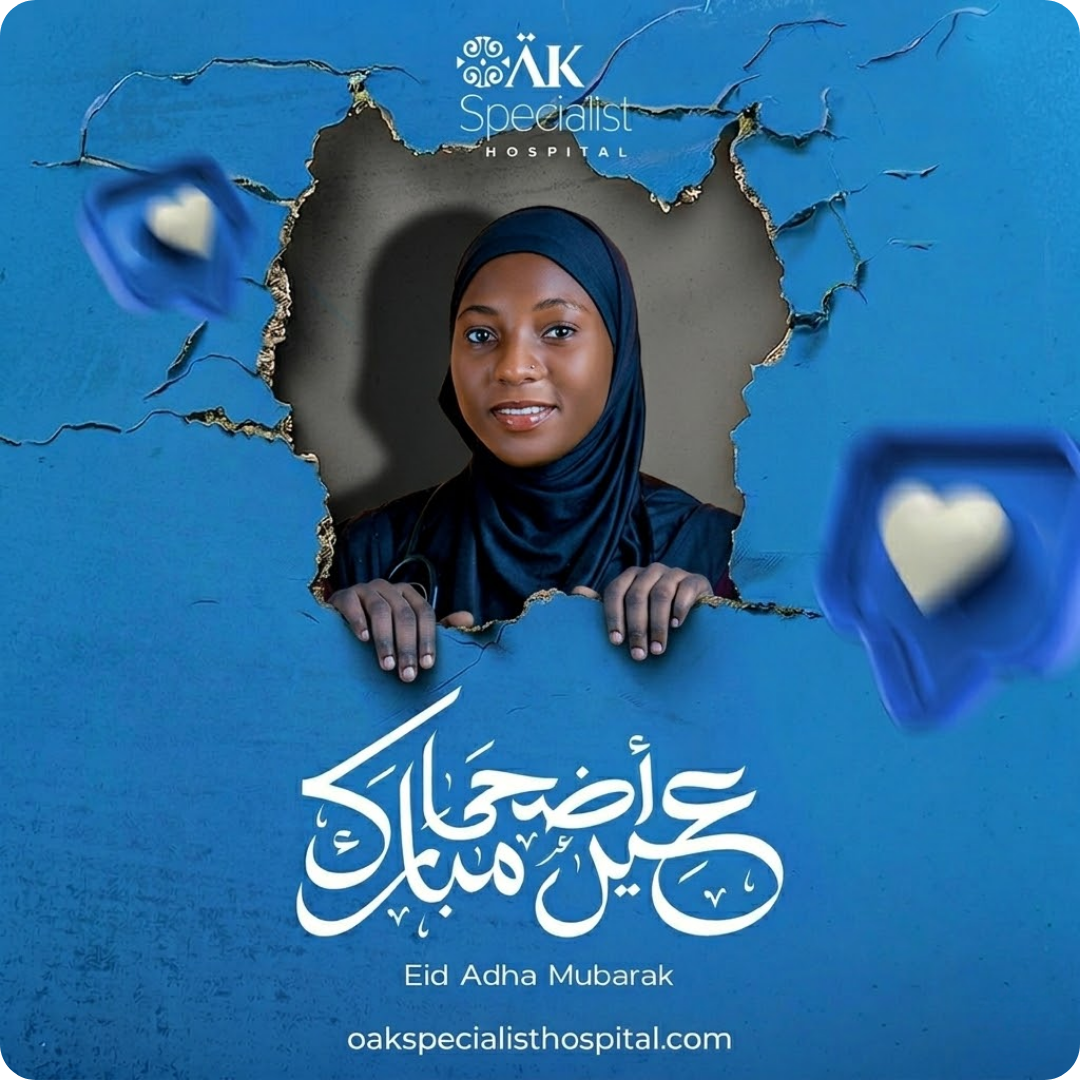
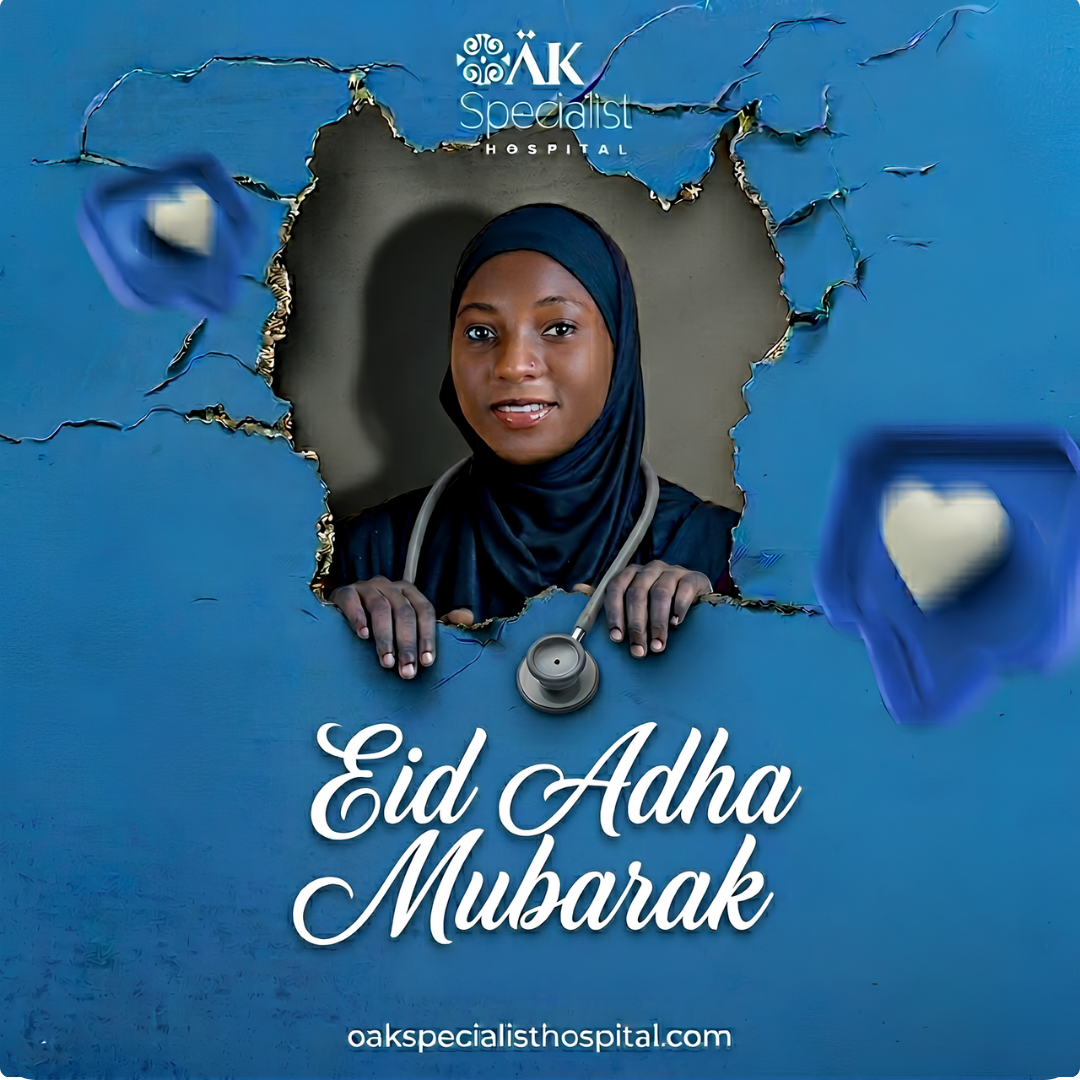
feat: implement interactive booking wizard for appointment scheduling

diff --git a/index.html b/index.html
@@ -605,7 +605,8 @@
               <div class="case_list owl-carousel">
                 <div class="case_study_item">
                   <div class="case_thumb">
-                    <a href="#" title="View IVF Success Story"><img src="assets/images/main-home/case_img.png" alt="IVF Case Study"></a>
+                    <a href="#" title="View IVF Success Story"><img src="assets/images/main-home/case_img.png"
+                        alt="IVF Case Study"></a>
                     <div class="case_study_content">
                       <span>Fertility & IVF</span>
                       <h3><a href="#">Miracle Twin IVF Journey</a></h3>
@@ -614,7 +615,8 @@
                 </div>
                 <div class="case_study_item">
                   <div class="case_thumb">
-                    <a href="#" title="View Maternal Success Story"><img src="assets/images/main-home/case_img2.png" alt="Maternal Case Study"></a>
+                    <a href="#" title="View Maternal Success Story"><img src="assets/images/main-home/case_img2.png"
+                        alt="Maternal Case Study"></a>
                     <div class="case_study_content">
                       <span>Obstetrics & Maternity</span>
                       <h3><a href="#">Exceptional Maternal Care</a></h3>
@@ -623,7 +625,8 @@
                 </div>
                 <div class="case_study_item">
                   <div class="case_thumb">
-                    <a href="#" title="View IVF Success Story"><img src="assets/images/main-home/case_img.png" alt="IVF Case Study"></a>
+                    <a href="#" title="View IVF Success Story"><img src="assets/images/main-home/case_img.png"
+                        alt="IVF Case Study"></a>
                     <div class="case_study_content">
                       <span>Fertility & IVF</span>
                       <h3><a href="#">Miracle Twin IVF Journey</a></h3>
@@ -632,7 +635,8 @@
                 </div>
                 <div class="case_study_item">
                   <div class="case_thumb">
-                    <a href="#" title="View Maternal Success Story"><img src="assets/images/main-home/case_img2.png" alt="Maternal Case Study"></a>
+                    <a href="#" title="View Maternal Success Story"><img src="assets/images/main-home/case_img2.png"
+                        alt="Maternal Case Study"></a>
                     <div class="case_study_content">
                       <span>Obstetrics & Maternity</span>
                       <h3><a href="#">Exceptional Maternal Care</a></h3>
@@ -734,7 +738,7 @@
               <img src="assets/images/main-home/team03.png" alt="" />
             </div>
             <div class="team-content text-center">
-              <h2>Dr.  Mensah</h2>
+              <h2>Dr. Mercy Mensah</h2>
               <h5>Consultant Paediatrician</h5>
               <div class="social-icon">
                 <ul>
@@ -824,48 +828,69 @@
               <div class="row">
                 <div class="col-lg-6 col-md-6">
                   <div class="form-box">
-                    <select id="index-type" name="type" title="Select Consultation Type" required="" style="width: 100%; border: none; outline: none; background: transparent; padding-left: 75px; font-size: 15px; color: #ffffff; height: 55px; appearance: none; -webkit-appearance: none;">
-                      <option value="" disabled selected style="color: #616161; background: #1e3348;">Consultation Type*</option>
-                      <option value="inPerson" style="color: #ffffff; background: #1e3348;">In-Person Consultation</option>
-                      <option value="virtual" style="color: #ffffff; background: #1e3348;">Virtual (Google Meet)</option>
+                    <select id="index-type" name="type" title="Select Consultation Type" required=""
+                      style="width: 100%; border: none; outline: none; background: transparent; padding-left: 75px; font-size: 15px; color: #ffffff; height: 55px; appearance: none; -webkit-appearance: none;">
+                      <option value="" disabled selected style="color: #616161; background: #1e3348;">Consultation Type*
+                      </option>
+                      <option value="inPerson" style="color: #ffffff; background: #1e3348;">In-Person Consultation
+                      </option>
+                      <option value="virtual" style="color: #ffffff; background: #1e3348;">Virtual (Google Meet)
+                      </option>
                     </select>
-                    <i class="fa-solid fa-video" style="position: absolute; left: 30px; top: 18px; color: var(--secondary-color);"></i>
+                    <i class="fa-solid fa-video"
+                      style="position: absolute; left: 30px; top: 18px; color: var(--secondary-color);"></i>
                   </div>
                 </div>
                 <div class="col-lg-6 col-md-6">
                   <div class="form-box">
-                    <select id="index-treatment" name="department" title="Select Department" required="" style="width: 100%; border: none; outline: none; background: transparent; padding-left: 75px; font-size: 15px; color: #ffffff; height: 55px; appearance: none; -webkit-appearance: none;">
-                      <option value="" disabled selected style="color: #616161; background: #1e3348;">Select Specialty*</option>
-                      <option value="general-medicine" style="color: #ffffff; background: #1e3348;">General/Family Medicine</option>
-                      <option value="obstetrics-gynaecology" style="color: #ffffff; background: #1e3348;">Obstetrics/Gynaecology</option>
+                    <select id="index-treatment" name="department" title="Select Department" required=""
+                      style="width: 100%; border: none; outline: none; background: transparent; padding-left: 75px; font-size: 15px; color: #ffffff; height: 55px; appearance: none; -webkit-appearance: none;">
+                      <option value="" disabled selected style="color: #616161; background: #1e3348;">Select Specialty*
+                      </option>
+                      <option value="general-medicine" style="color: #ffffff; background: #1e3348;">General/Family
+                        Medicine</option>
+                      <option value="obstetrics-gynaecology" style="color: #ffffff; background: #1e3348;">
+                        Obstetrics/Gynaecology</option>
                       <option value="ivf" style="color: #ffffff; background: #1e3348;">Fertility & IVF</option>
                       <option value="paediatrics" style="color: #ffffff; background: #1e3348;">Paediatrics</option>
-                      <option value="gynae-oncology" style="color: #ffffff; background: #1e3348;">Gynae-oncology</option>
-                      <option value="pediatric-surgery" style="color: #ffffff; background: #1e3348;">Pediatric Surgery</option>
-                      <option value="general-surgery" style="color: #ffffff; background: #1e3348;">General Surgery</option>
+                      <option value="gynae-oncology" style="color: #ffffff; background: #1e3348;">Gynae-oncology
+                      </option>
+                      <option value="pediatric-surgery" style="color: #ffffff; background: #1e3348;">Pediatric Surgery
+                      </option>
+                      <option value="general-surgery" style="color: #ffffff; background: #1e3348;">General Surgery
+                      </option>
                       <option value="anaesthetic" style="color: #ffffff; background: #1e3348;">Anaesthetics</option>
-                      <option value="internal-medicine" style="color: #ffffff; background: #1e3348;">Internal Medicine</option>
+                      <option value="internal-medicine" style="color: #ffffff; background: #1e3348;">Internal Medicine
+                      </option>
                       <option value="haematology" style="color: #ffffff; background: #1e3348;">Haematology</option>
                       <option value="opthalmology" style="color: #ffffff; background: #1e3348;">Ophthalmology</option>
-                      <option value="dietician" style="color: #ffffff; background: #1e3348;">Dietician & Nutrition</option>
-                      <option value="other-services" style="color: #ffffff; background: #1e3348;">Other Services</option>
+                      <option value="dietician" style="color: #ffffff; background: #1e3348;">Dietician & Nutrition
+                      </option>
+                      <option value="other-services" style="color: #ffffff; background: #1e3348;">Other Services
+                      </option>
                     </select>
-                    <i class="fa-solid fa-stethoscope" style="position: absolute; left: 30px; top: 18px; color: var(--secondary-color);"></i>
+                    <i class="fa-solid fa-stethoscope"
+                      style="position: absolute; left: 30px; top: 18px; color: var(--secondary-color);"></i>
                   </div>
                 </div>
                 <div class="col-lg-12">
                   <div class="form-box">
-                    <select id="index-doctor" name="specialist" title="Select Doctor" required="" style="width: 100%; border: none; outline: none; background: transparent; padding-left: 75px; font-size: 15px; color: #ffffff; height: 55px; appearance: none; -webkit-appearance: none;">
-                      <option value="" disabled selected style="color: #616161; background: #1e3348;">Select Specialist*</option>
+                    <select id="index-doctor" name="specialist" title="Select Doctor" required=""
+                      style="width: 100%; border: none; outline: none; background: transparent; padding-left: 75px; font-size: 15px; color: #ffffff; height: 55px; appearance: none; -webkit-appearance: none;">
+                      <option value="" disabled selected style="color: #616161; background: #1e3348;">Select Specialist*
+                      </option>
                       <option value="any" style="color: #ffffff; background: #1e3348;">Any Specialist Available</option>
                     </select>
-                    <i class="fa-solid fa-user-doctor" style="position: absolute; left: 30px; top: 18px; color: var(--secondary-color);"></i>
+                    <i class="fa-solid fa-user-doctor"
+                      style="position: absolute; left: 30px; top: 18px; color: var(--secondary-color);"></i>
                   </div>
                 </div>
                 <div class="col-lg-12">
                   <div class="check_bx">
                     <input type="checkbox" id="index-agree" title="I agree to terms and conditions" required="">
-                    <label for="index-agree" style="font-size: 14px; color: rgba(255, 255, 255, 0.85); margin-left: 10px; cursor: pointer;">I agree to terms and conditions</label>
+                    <label for="index-agree"
+                      style="font-size: 14px; color: rgba(255, 255, 255, 0.85); margin-left: 10px; cursor: pointer;">I
+                      agree to terms and conditions</label>
                   </div>
                   <div class="submit-button cursor-scale small" style="margin-top: 20px;">
                     <button class="submit-btn" type="submit">
@@ -942,7 +967,8 @@
                     </div>
                     <div class="testi-desc">
                       <p>
-                        "The team is extremely professional and the ambience alone is therapeutic. Definitely matching international quality and standards."
+                        "The team is extremely professional and the ambience alone is therapeutic. Definitely matching
+                        international quality and standards."
                       </p>
                     </div>
                     <ul class="testi-rating">
@@ -972,7 +998,8 @@
                     </div>
                     <div class="testi-desc">
                       <p>
-                        "World class, top-notch services. You can't go wrong with Oak—no matter the situation, they have got you covered."
+                        "World class, top-notch services. You can't go wrong with Oak—no matter the situation, they have
+                        got you covered."
                       </p>
                     </div>
                     <ul class="testi-rating">
@@ -1002,7 +1029,8 @@
                     </div>
                     <div class="testi-desc">
                       <p>
-                        "This facility is excellent—from the pharmacy and nursing staff to the laboratory techs and doctors. Highly recommended for their outstanding care."
+                        "This facility is excellent—from the pharmacy and nursing staff to the laboratory techs and
+                        doctors. Highly recommended for their outstanding care."
                       </p>
                     </div>
                     <ul class="testi-rating">
@@ -1396,7 +1424,7 @@
               <div class="blogs-category">
                 <ul>
                   <li class="blg-date">medical</li>
-                  <li class="blg-admin">By - John Alex</li>
+                  <li class="blg-admin">By - Carl Owusu</li>
                 </ul>
               </div>
               <div class="blog_text">
@@ -1762,13 +1790,15 @@
               <!-- Social Box -->
               <ul class="social-box">
                 <li class="facebook">
-                  <a href="https://www.facebook.com/profile.php?id=100086127687658" class="fab fa-facebook-f" title="Facebook"></a>
+                  <a href="https://www.facebook.com/profile.php?id=100086127687658" class="fab fa-facebook-f"
+                    title="Facebook"></a>
                 </li>
                 <li class="whatsapp">
                   <a href="https://wa.me/+233509760659" class="fab fa-whatsapp" title="WhatsApp"></a>
                 </li>
                 <li class="instagram">
-                  <a href="https://www.instagram.com/oakspecialisthospital/" class="fab fa-instagram" title="Instagram"></a>
+                  <a href="https://www.instagram.com/oakspecialisthospital/" class="fab fa-instagram"
+                    title="Instagram"></a>
                 </li>
                 <li class="tiktok">
                   <a href="https://www.tiktok.com/@oakspecialisthosp" class="fab fa-tiktok" title="TikTok"></a>
@@ -1856,15 +1886,15 @@
 
   <!--Start of Tawk.to Script-->
   <script type="text/javascript">
-  var Tawk_API=Tawk_API||{}, Tawk_LoadStart=new Date();
-  (function(){
-  var s1=document.createElement("script"),s0=document.getElementsByTagName("script")[0];
-  s1.async=true;
-  s1.src='https://embed.tawk.to/6a11d7ec5568261c36f5158e/1jpar6tld';
-  s1.charset='UTF-8';
-  s1.setAttribute('crossorigin','*');
-  s0.parentNode.insertBefore(s1,s0);
-  })();
+    var Tawk_API = Tawk_API || {}, Tawk_LoadStart = new Date();
+    (function () {
+      var s1 = document.createElement("script"), s0 = document.getElementsByTagName("script")[0];
+      s1.async = true;
+      s1.src = 'https://embed.tawk.to/6a11d7ec5568261c36f5158e/1jpar6tld';
+      s1.charset = 'UTF-8';
+      s1.setAttribute('crossorigin', '*');
+      s0.parentNode.insertBefore(s1, s0);
+    })();
   </script>
   <!--End of Tawk.to Script-->
 

diff --git a/assets/js/booking-wizard.js b/assets/js/booking-wizard.js
@@ -525,7 +525,10 @@ function parseQueryParams() {
   // Set Specialist (checked first because it auto-fills department)
   if (doctorParam) {
     const doctorKey = doctorParam.toLowerCase();
-    if (CALENDAR_MAP.doctors[doctorKey]) {
+    const docInCal = CALENDAR_MAP.doctors[doctorKey];
+    const docInGlobal = window.DOCTORS_DATA.find(d => d.id === doctorKey);
+    
+    if (docInCal || docInGlobal) {
       state.selections.specialist = doctorKey;
       validSelections++;
       
@@ -539,17 +542,19 @@ function parseQueryParams() {
       });
       
       // Auto fill doctor's department in selections
-      const doctorObj = CALENDAR_MAP.doctors[doctorKey];
-      state.selections.department = doctorObj.department;
-      
-      const deptCards = document.querySelectorAll('.dept-selection-card');
-      deptCards.forEach(c => {
-        if (c.getAttribute('data-value') === doctorObj.department) {
-          c.classList.add('selected');
-        } else {
-          c.classList.remove('selected');
-        }
-      });
+      const deptKey = docInCal ? docInCal.department : (docInGlobal ? docInGlobal.dept : null);
+      if (deptKey) {
+        state.selections.department = deptKey;
+        
+        const deptCards = document.querySelectorAll('.dept-selection-card');
+        deptCards.forEach(c => {
+          if (c.getAttribute('data-value') === deptKey) {
+            c.classList.add('selected');
+          } else {
+            c.classList.remove('selected');
+          }
+        });
+      }
     }
   }
 
@@ -619,8 +624,17 @@ window.navigateToStep5 = function() {
 
   let docText = 'Any Available Specialist';
   if (state.selections.specialist) {
-    const docObj = CALENDAR_MAP.doctors[state.selections.specialist];
-    if (docObj) docText = docObj.name;
+    if (state.selections.specialist === 'any') {
+      docText = 'Any Available Specialist';
+    } else {
+      const docObj = CALENDAR_MAP.doctors[state.selections.specialist];
+      if (docObj) {
+        docText = docObj.name;
+      } else {
+        const docRecord = window.DOCTORS_DATA.find(d => d.id === state.selections.specialist);
+        if (docRecord) docText = docRecord.name;
+      }
+    }
   }
 
   // Format date and time beautifully